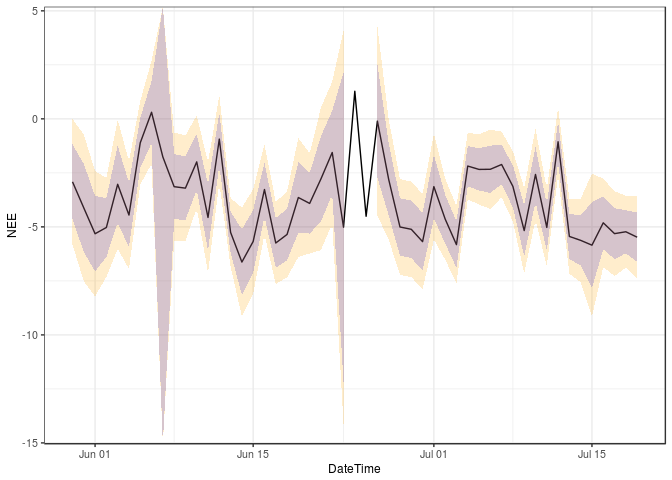
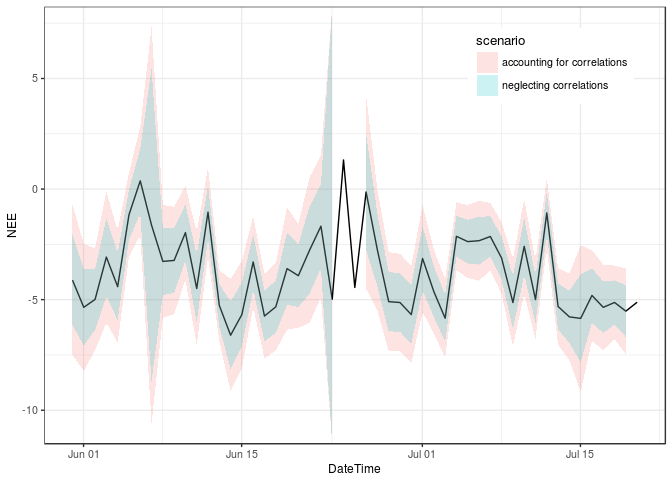
fix midnight belongs to previous day in aggregation vignette
and put legend to daily graph

diff --git a/vignettes/aggUncertainty.md b/vignettes/aggUncertainty.md
@@ -15,21 +15,17 @@ and stored in variable `NEE_uStar_fsd`.
 
     library(REddyProc)
     library(dplyr)
-    EddyDataWithPosix <- fConvertTimeToPosix(
-      Example_DETha98, 'YDH',Year = 'Year',Day = 'DoY', Hour = 'Hour')
+    EddyDataWithPosix <- Example_DETha98 %>% 
+      filterLongRuns("NEE") %>% 
+      fConvertTimeToPosix('YDH',Year = 'Year',Day = 'DoY', Hour = 'Hour')
     EProc <- sEddyProc$new(
       'DE-Tha', EddyDataWithPosix, c('NEE','Rg','Tair','VPD', 'Ustar'))
     EProc$sMDSGapFillAfterUstar('NEE', uStarTh = 0.3, FillAll = TRUE)
-
-    ## Warning in sMDSGapFill(fluxVar, QFVar = attr(qfUStar, "varnames"), QFValue
-    ## = 0, : Variable NEE contains long runs of numerically equal numbers.
-    ## Longest of 10 repeats of value 0.695 starts at index 1397
-
     results <- EProc$sExportResults() 
     summary(results$NEE_uStar_fsd)
 
     ##     Min.  1st Qu.   Median     Mean  3rd Qu.     Max. 
-    ##  0.03535  1.69960  2.32796  2.74052  3.44417 24.55782
+    ##  0.03535  1.69960  2.32796  2.74246  3.44417 24.55782
 
 We can inspect, how the uncertainty scales with the flux magnitude.
 
@@ -54,9 +50,10 @@ an aprroximate reduction of the standard deviation by $\\sqrt{n}$.
       ) %>% select(nRec, seMean, seMeanApprox)
 
     ##    nRec     seMean seMeanApprox
-    ## 1 10935 0.02979564   0.02639231
+    ## 1 10901 0.02988839   0.02650074
 
-Due to the large number of records, the estimated uncertainty very low.
+Due to the large number of records, the estimated uncertainty is very
+low.
 
 Considering correlations
 ------------------------
@@ -72,23 +69,28 @@ decreasing with the autocorrelation among records (Bayley 1946, Zieba
 The standard deviation now approximately decreases only by
 $\\sqrt{n\_{eff}}$.
 
-First we need to quantify the correlations and inspect their
-autocorrelation.
+First we need to quantify the error terms, i.e. model-data residuals.
+For all the records of good quality, we have an original measured value
+`NEE_uStar_orig` and modelled value from MDS gapfilling,
+`NEE_uStar_fall`. The residual of bad-quality data is set to missing.
 
     results <- EProc$sExportResults() %>% 
       mutate(
         resid = ifelse(NEE_uStar_fqc == 0, NEE_uStar_orig - NEE_uStar_fall, NA )
       )
+
+Now we can inspect the the autocorrelation of the errors.
+
     acf(results$resid, na.action = na.pass, main = "")
 
-![](aggUncertainty_files/figure-markdown_strict/unnamed-chunk-5-1.png)
+![](aggUncertainty_files/figure-markdown_strict/unnamed-chunk-6-1.png)
 
 The empricical autocorrelation function shows strong positive
 autocorrelation in residuals up to a lag of 10 records.
 
 Computation of effective number of observations is provided by function
 `computeEffectiveNumObs` from package `lognorm` based on the emprical
-autocorrelation function.
+autocorrelation function for given model-data residuals.
 
     library(lognorm)
     autoCorr <- computeEffectiveAutoCorr(results$resid)
@@ -96,17 +98,24 @@ autocorrelation function.
     c( nEff = nEff, nObs = sum(is.finite(results$resid)))
 
     ##      nEff      nObs 
-    ##  3884.196 10935.000
+    ##  3870.283 10901.000
+
+We see that the effective number of observations is only about a third
+of the number of observations.
+
+Now we can use the formulas for the sum and the mean of correlated
+normally distributed variables to compute the uncertainty of the mean.
 
     results %>% filter(NEE_uStar_fqc == 0) %>% summarise(
       nRec = sum(is.finite(NEE_uStar_fsd))
       , varMean = sum(NEE_uStar_fsd^2, na.rm = TRUE) / nRec / (!!nEff - 1)
       , seMean = sqrt(varMean) 
-      , seMeanApprox = sqrt(mean(NEE_uStar_fsd^2, na.rm = TRUE)) / sqrt(!!nEff - 1)
+      #, seMean2 = sqrt(mean(NEE_uStar_fsd^2, na.rm = TRUE)) / sqrt(!!nEff - 1)
+      , seMeanApprox = mean(NEE_uStar_fsd, na.rm = TRUE) / sqrt(!!nEff - 1)
       ) %>% select(seMean, seMeanApprox)
 
     ##       seMean seMeanApprox
-    ## 1 0.04999971   0.04999971
+    ## 1 0.05016727   0.04448115
 
 Daily aggregation
 -----------------
@@ -115,11 +124,12 @@ When aggregating daily respiration, the same principles hold.
 
 However, when computing the number of effective observations, we
 recommend using the empirical autocorrelation function estimated on
-longer time series of residuals instead of estimating them each day.
+longer time series of residuals instead of estimating them each day
+(`autoCorr` computed above).
 
     results <- results %>% mutate(
       DateTime = EddyDataWithPosix$DateTime
-      , DoY = EddyDataWithPosix$DoY
+      , DoY = as.POSIXlt(DateTime - 15*60)$yday # midnight belongs to the previous
     )
 
     aggDay <- results %>% group_by(DoY) %>% 
@@ -136,22 +146,23 @@ longer time series of residuals instead of estimating them each day.
       )
     aggDay
 
-    ## # A tibble: 366 x 7
+    ## # A tibble: 365 x 7
     ##      DoY DateTime             nRec  nEff      NEE  sdNEE sdNEEuncorr
     ##    <int> <dttm>              <int> <dbl>    <dbl>  <dbl>       <dbl>
-    ##  1     1 1998-01-01 00:30:00    21  7.87  0.102    0.987       0.578
-    ##  2     2 1998-01-02 00:00:00     7  3.66  0.00269  1.58        1.05 
-    ##  3     3 1998-01-03 00:00:00     0  0.    0.0484  NA          NA    
-    ##  4     4 1998-01-04 00:00:00     0  0.    0.306   NA          NA    
-    ##  5     5 1998-01-05 00:00:00    27 10.5   0.0958   0.867       0.525
-    ##  6     6 1998-01-06 00:00:00    48 18.0   1.04     0.617       0.370
-    ##  7     7 1998-01-07 00:00:00    48 18.0  -0.354    0.563       0.339
-    ##  8     8 1998-01-08 00:00:00    46 17.2  -0.160    0.545       0.327
-    ##  9     9 1998-01-09 00:00:00    45 16.8   0.615    0.482       0.289
-    ## 10    10 1998-01-10 00:00:00    37 13.9   0.268    0.637       0.381
-    ## # ... with 356 more rows
+    ##  1     0 1998-01-01 00:30:00    21  7.87  0.124    0.988       0.579
+    ##  2     1 1998-01-02 00:30:00     7  3.66  0.00610  1.57        1.05 
+    ##  3     2 1998-01-03 00:30:00     0  0.    0.0484  NA          NA    
+    ##  4     3 1998-01-04 00:30:00     0  0.    0.303   NA          NA    
+    ##  5     4 1998-01-05 00:30:00    28 10.9   0.195    0.851       0.515
+    ##  6     5 1998-01-06 00:30:00    48 18.0   0.926    0.615       0.370
+    ##  7     6 1998-01-07 00:30:00    48 18.0  -0.337    0.566       0.340
+    ##  8     7 1998-01-08 00:30:00    46 17.2  -0.139    0.541       0.325
+    ##  9     8 1998-01-09 00:30:00    45 16.8   0.614    0.482       0.289
+    ## 10     9 1998-01-10 00:30:00    36 13.5   0.242    0.646       0.386
+    ## # ... with 355 more rows
 
 ![](aggUncertainty_files/figure-markdown_strict/uncBand-1.png)
 
-The confidence bounds computed with accounting for correlations in this
-case are about the twice the ones computed with neglecting correlations.
+The confidence bounds (+-1.96 stdDev) computed with accounting for
+correlations in this case are about twice the ones computed with
+neglecting correlations.
